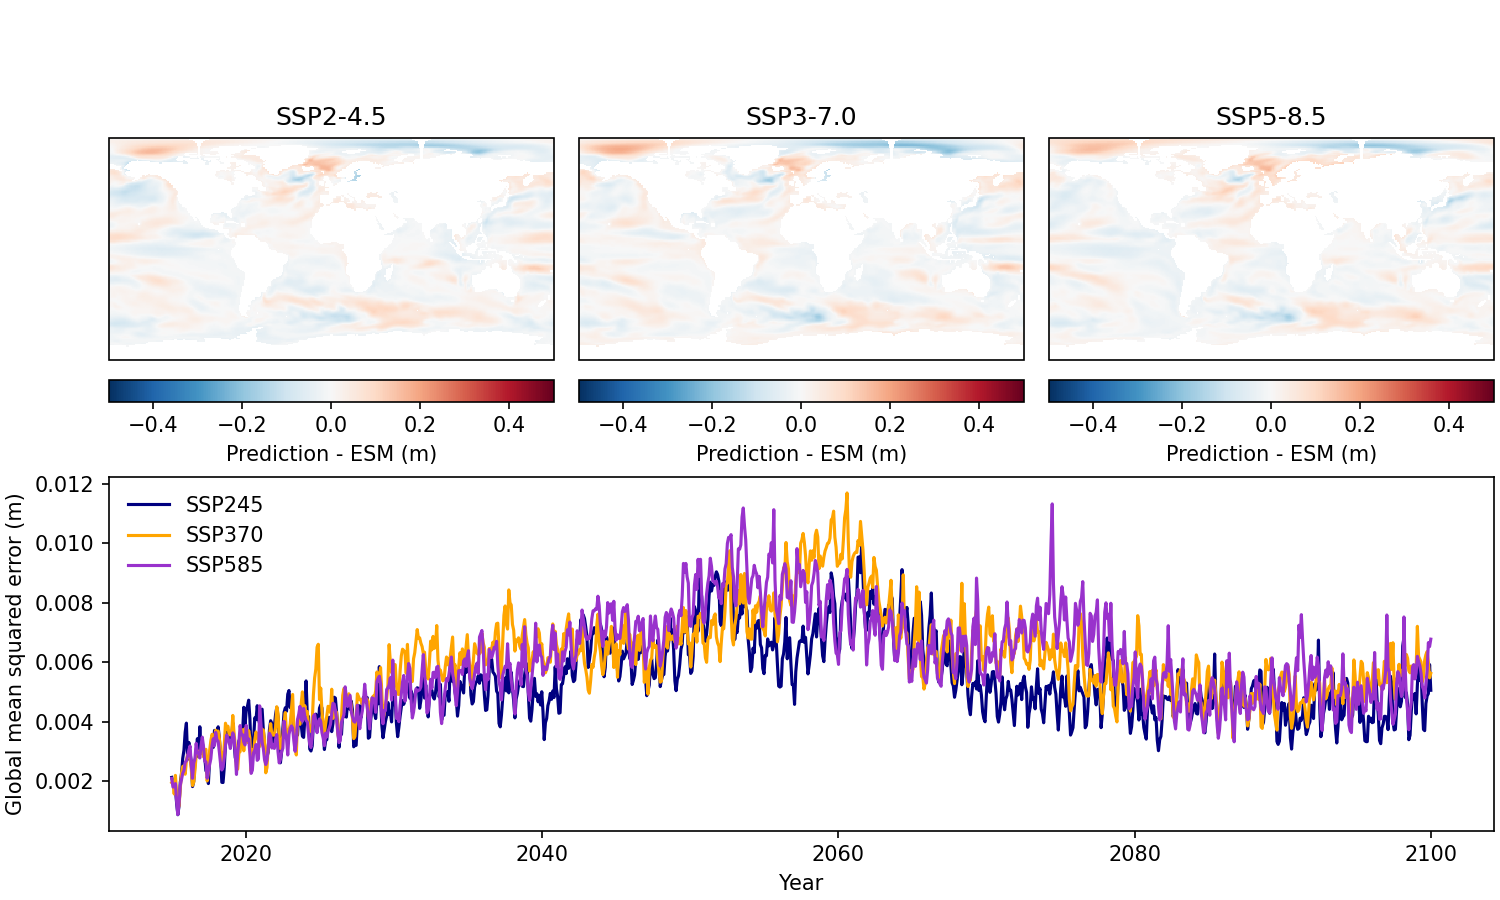
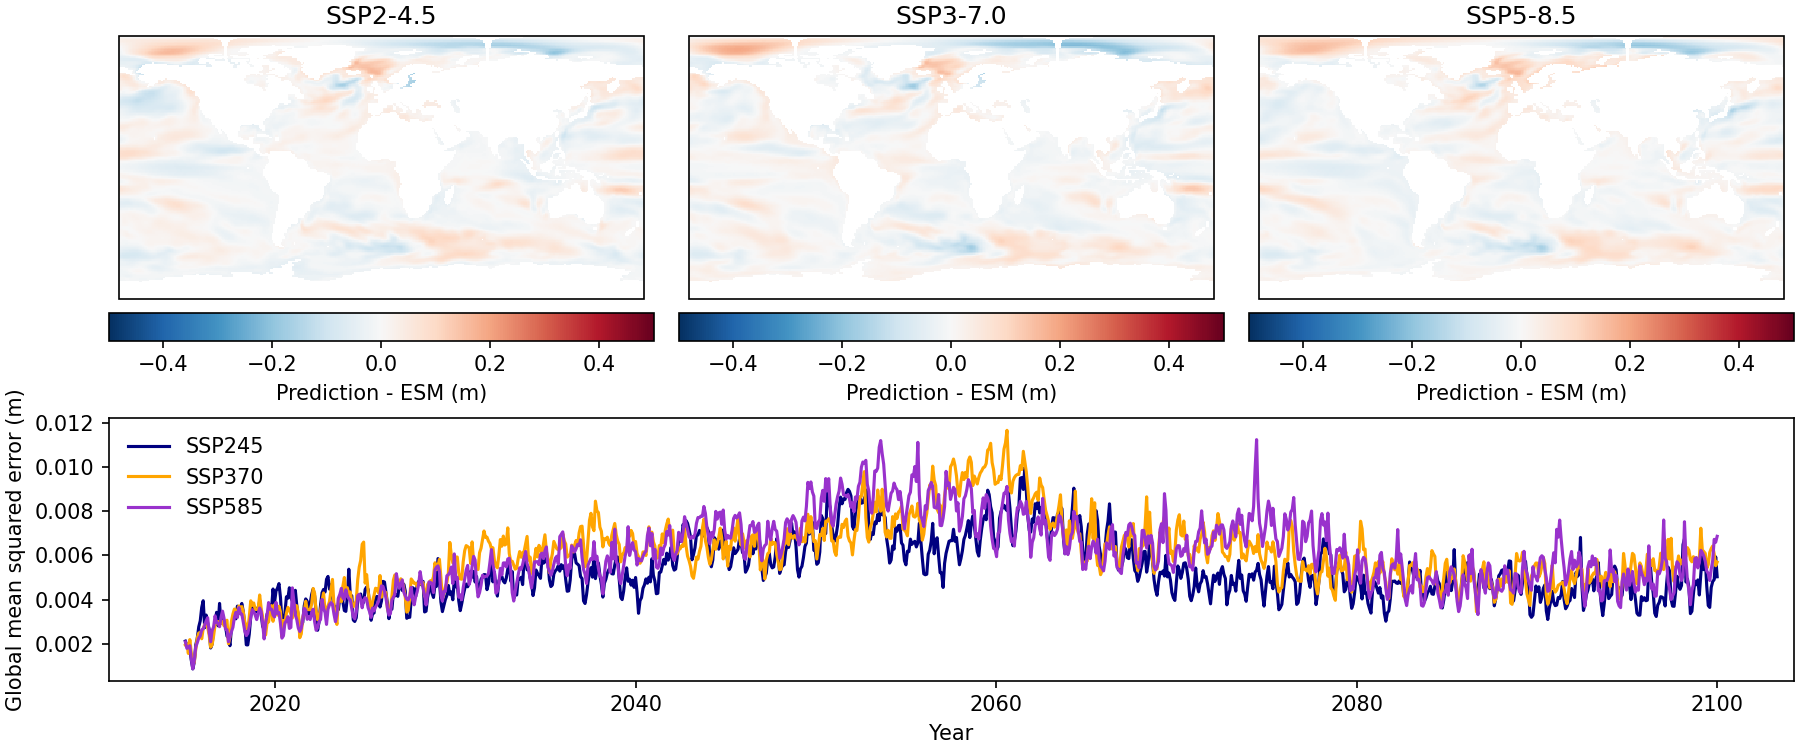
Updated plots and docs

diff --git a/esmvaltool/diag_scripts/steric_patterns/steric_patterns.py b/esmvaltool/diag_scripts/steric_patterns/steric_patterns.py
@@ -242,7 +242,7 @@ def evaluate_regression(
     fig = plt.figure(figsize=(12, 6), layout="constrained")
 
     lat_idxs = [150, 26, 170]
-    lon_idxs = [110, 30, 340]
+    lon_idxs = [120, 30, 340]
     lats = zos_cube.coord("latitude").points[lat_idxs]
     lons = zos_cube.coord("longitude").points[lon_idxs]
     for index in range(3):

diff --git a/doc/sphinx/source/recipes/recipe_steric_patterns.rst b/doc/sphinx/source/recipes/recipe_steric_patterns.rst
@@ -120,8 +120,8 @@ Example plots
    :align:   center
    :width: 80%
 
-   Example predictions from the UKESM1-0-LL model patterns for each SSP,
-   as well as a timeseries of globally-averaged mean-squared error. Two polar
-   artifacts can be seen in each map panel, seemingly occuring due to 
-   ESMValTool's regridding functionality. This seems to occur more often on 
-   low-resolution models as opposed to high-res.
+   Example end-of-century predictions from the UKESM1-0-LL model patterns 
+   for each SSP, as well as a timeseries of globally-averaged mean-squared 
+   error. Two polar artifacts can be seen in each map panel, seemingly 
+   occuring due to ESMValTool's regridding functionality. This seems to occur 
+   more often on low-resolution models as opposed to high-res.
